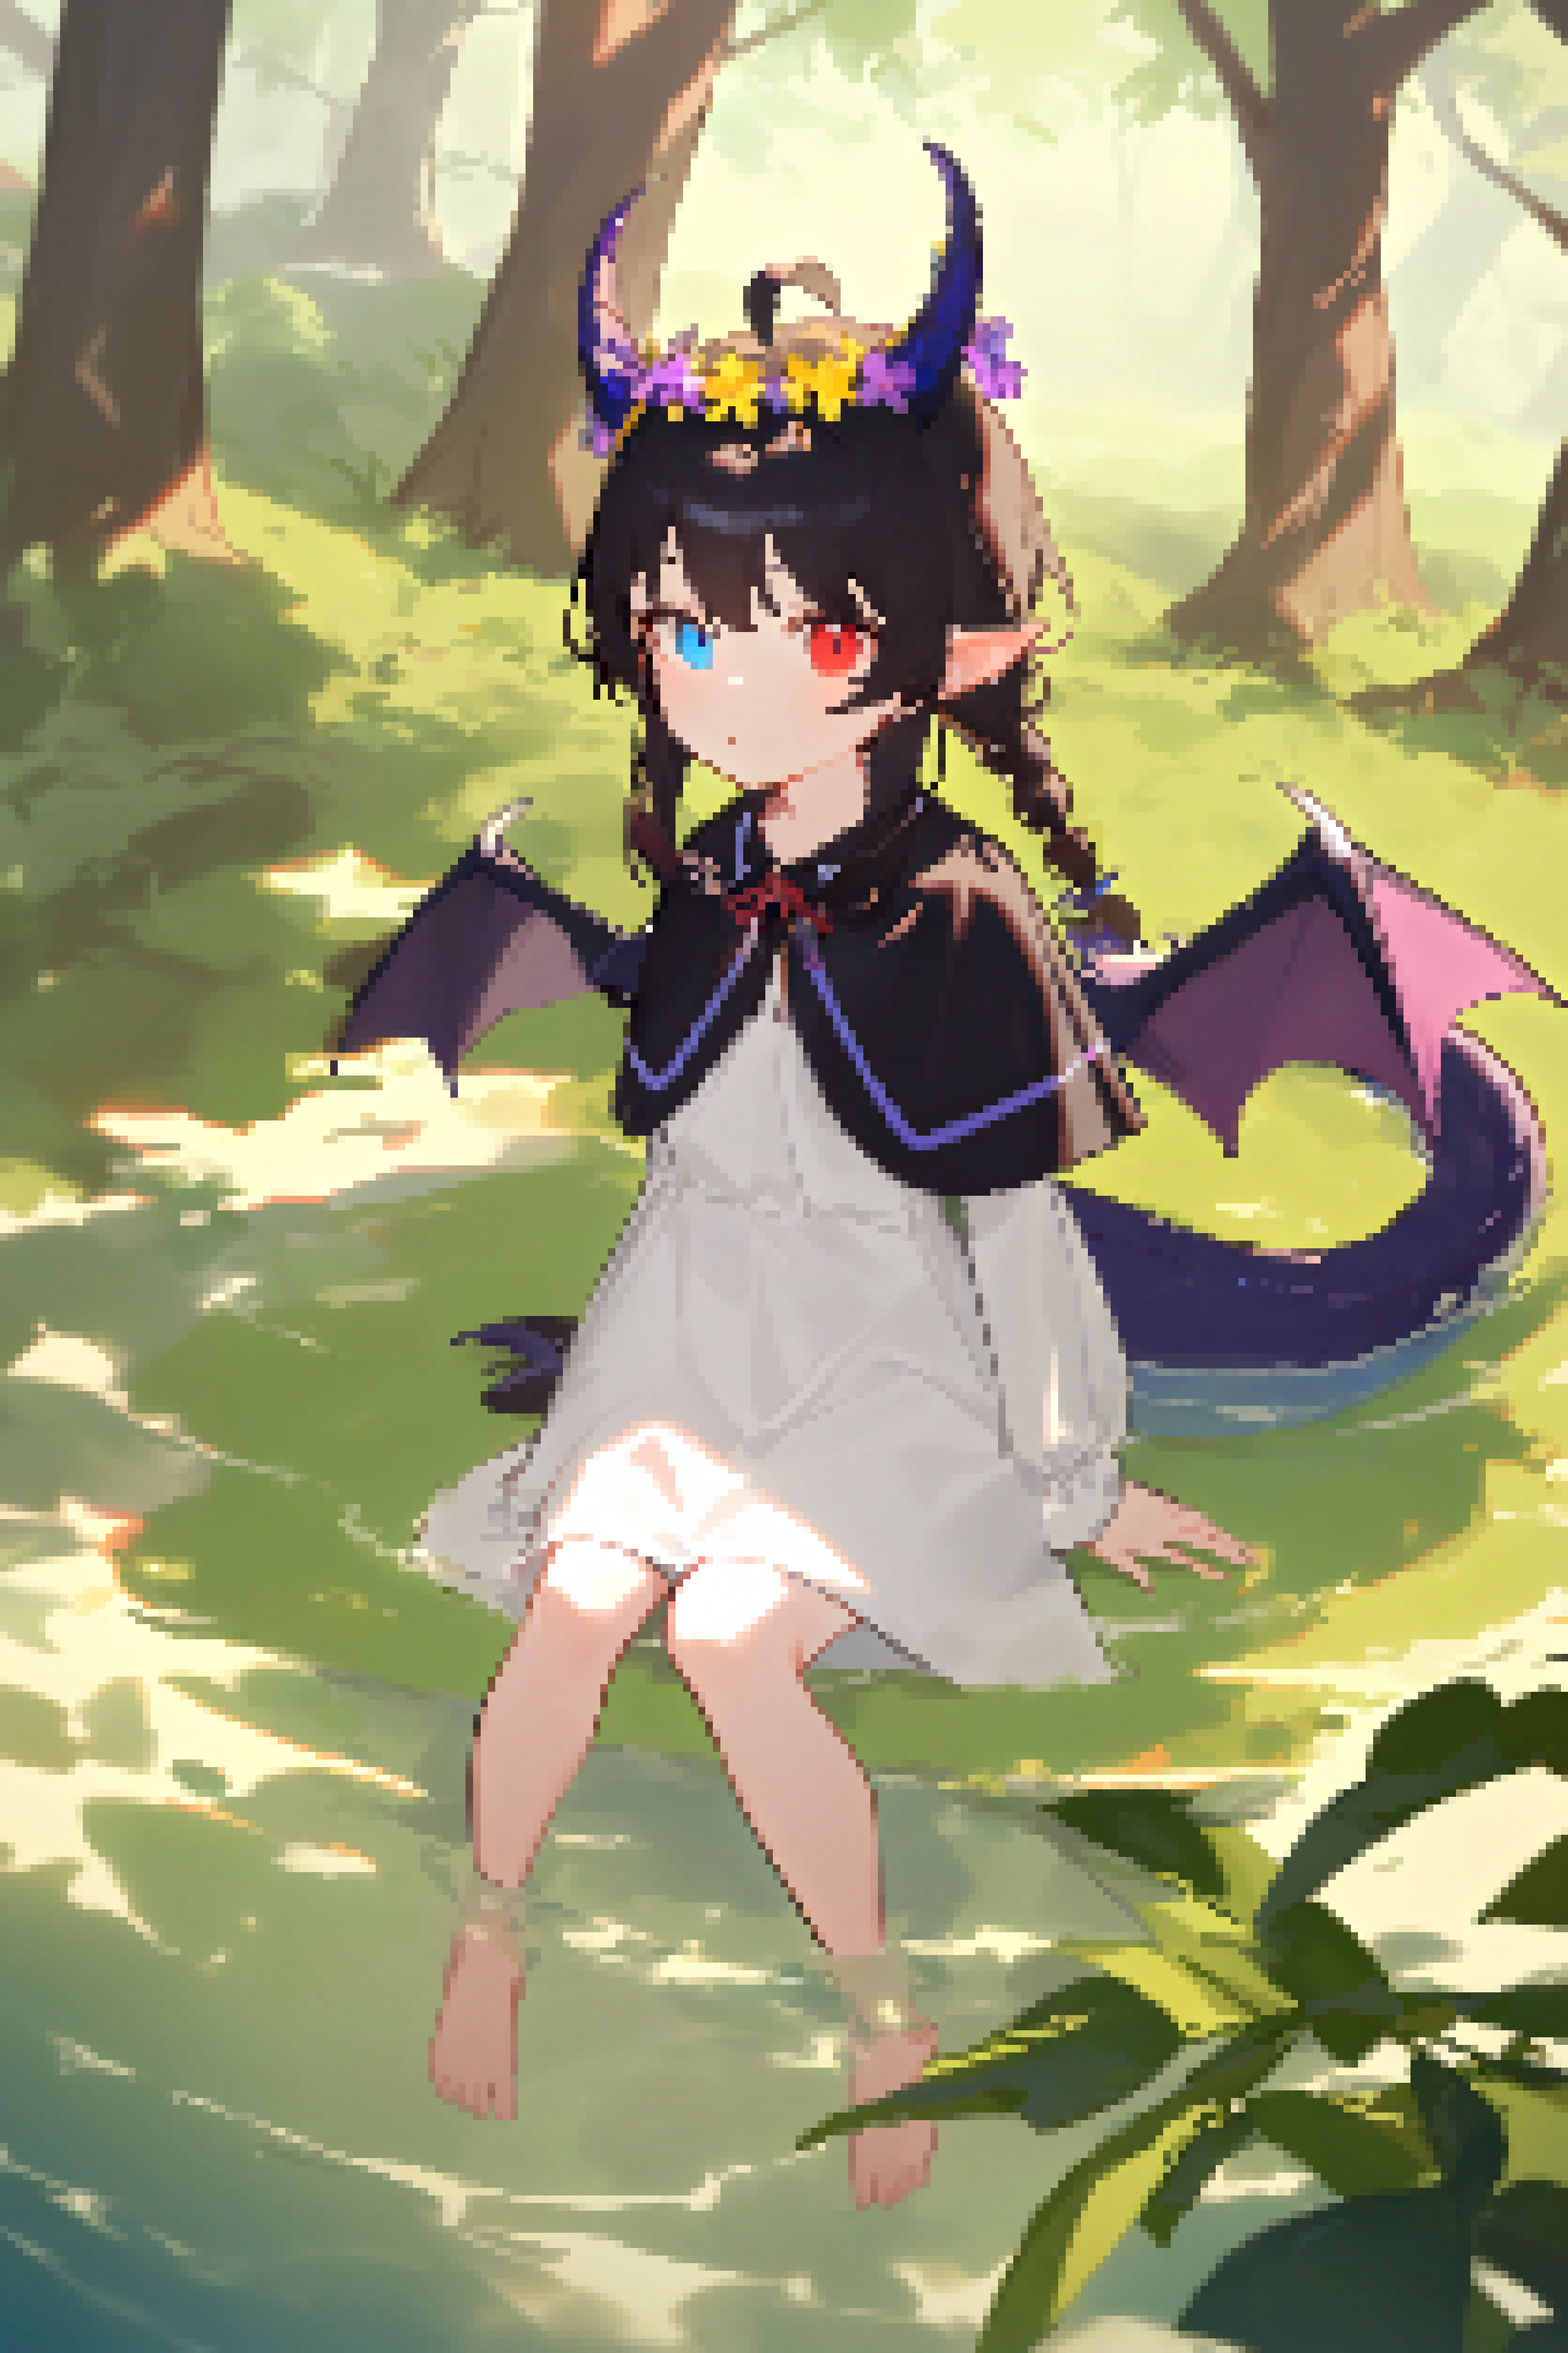
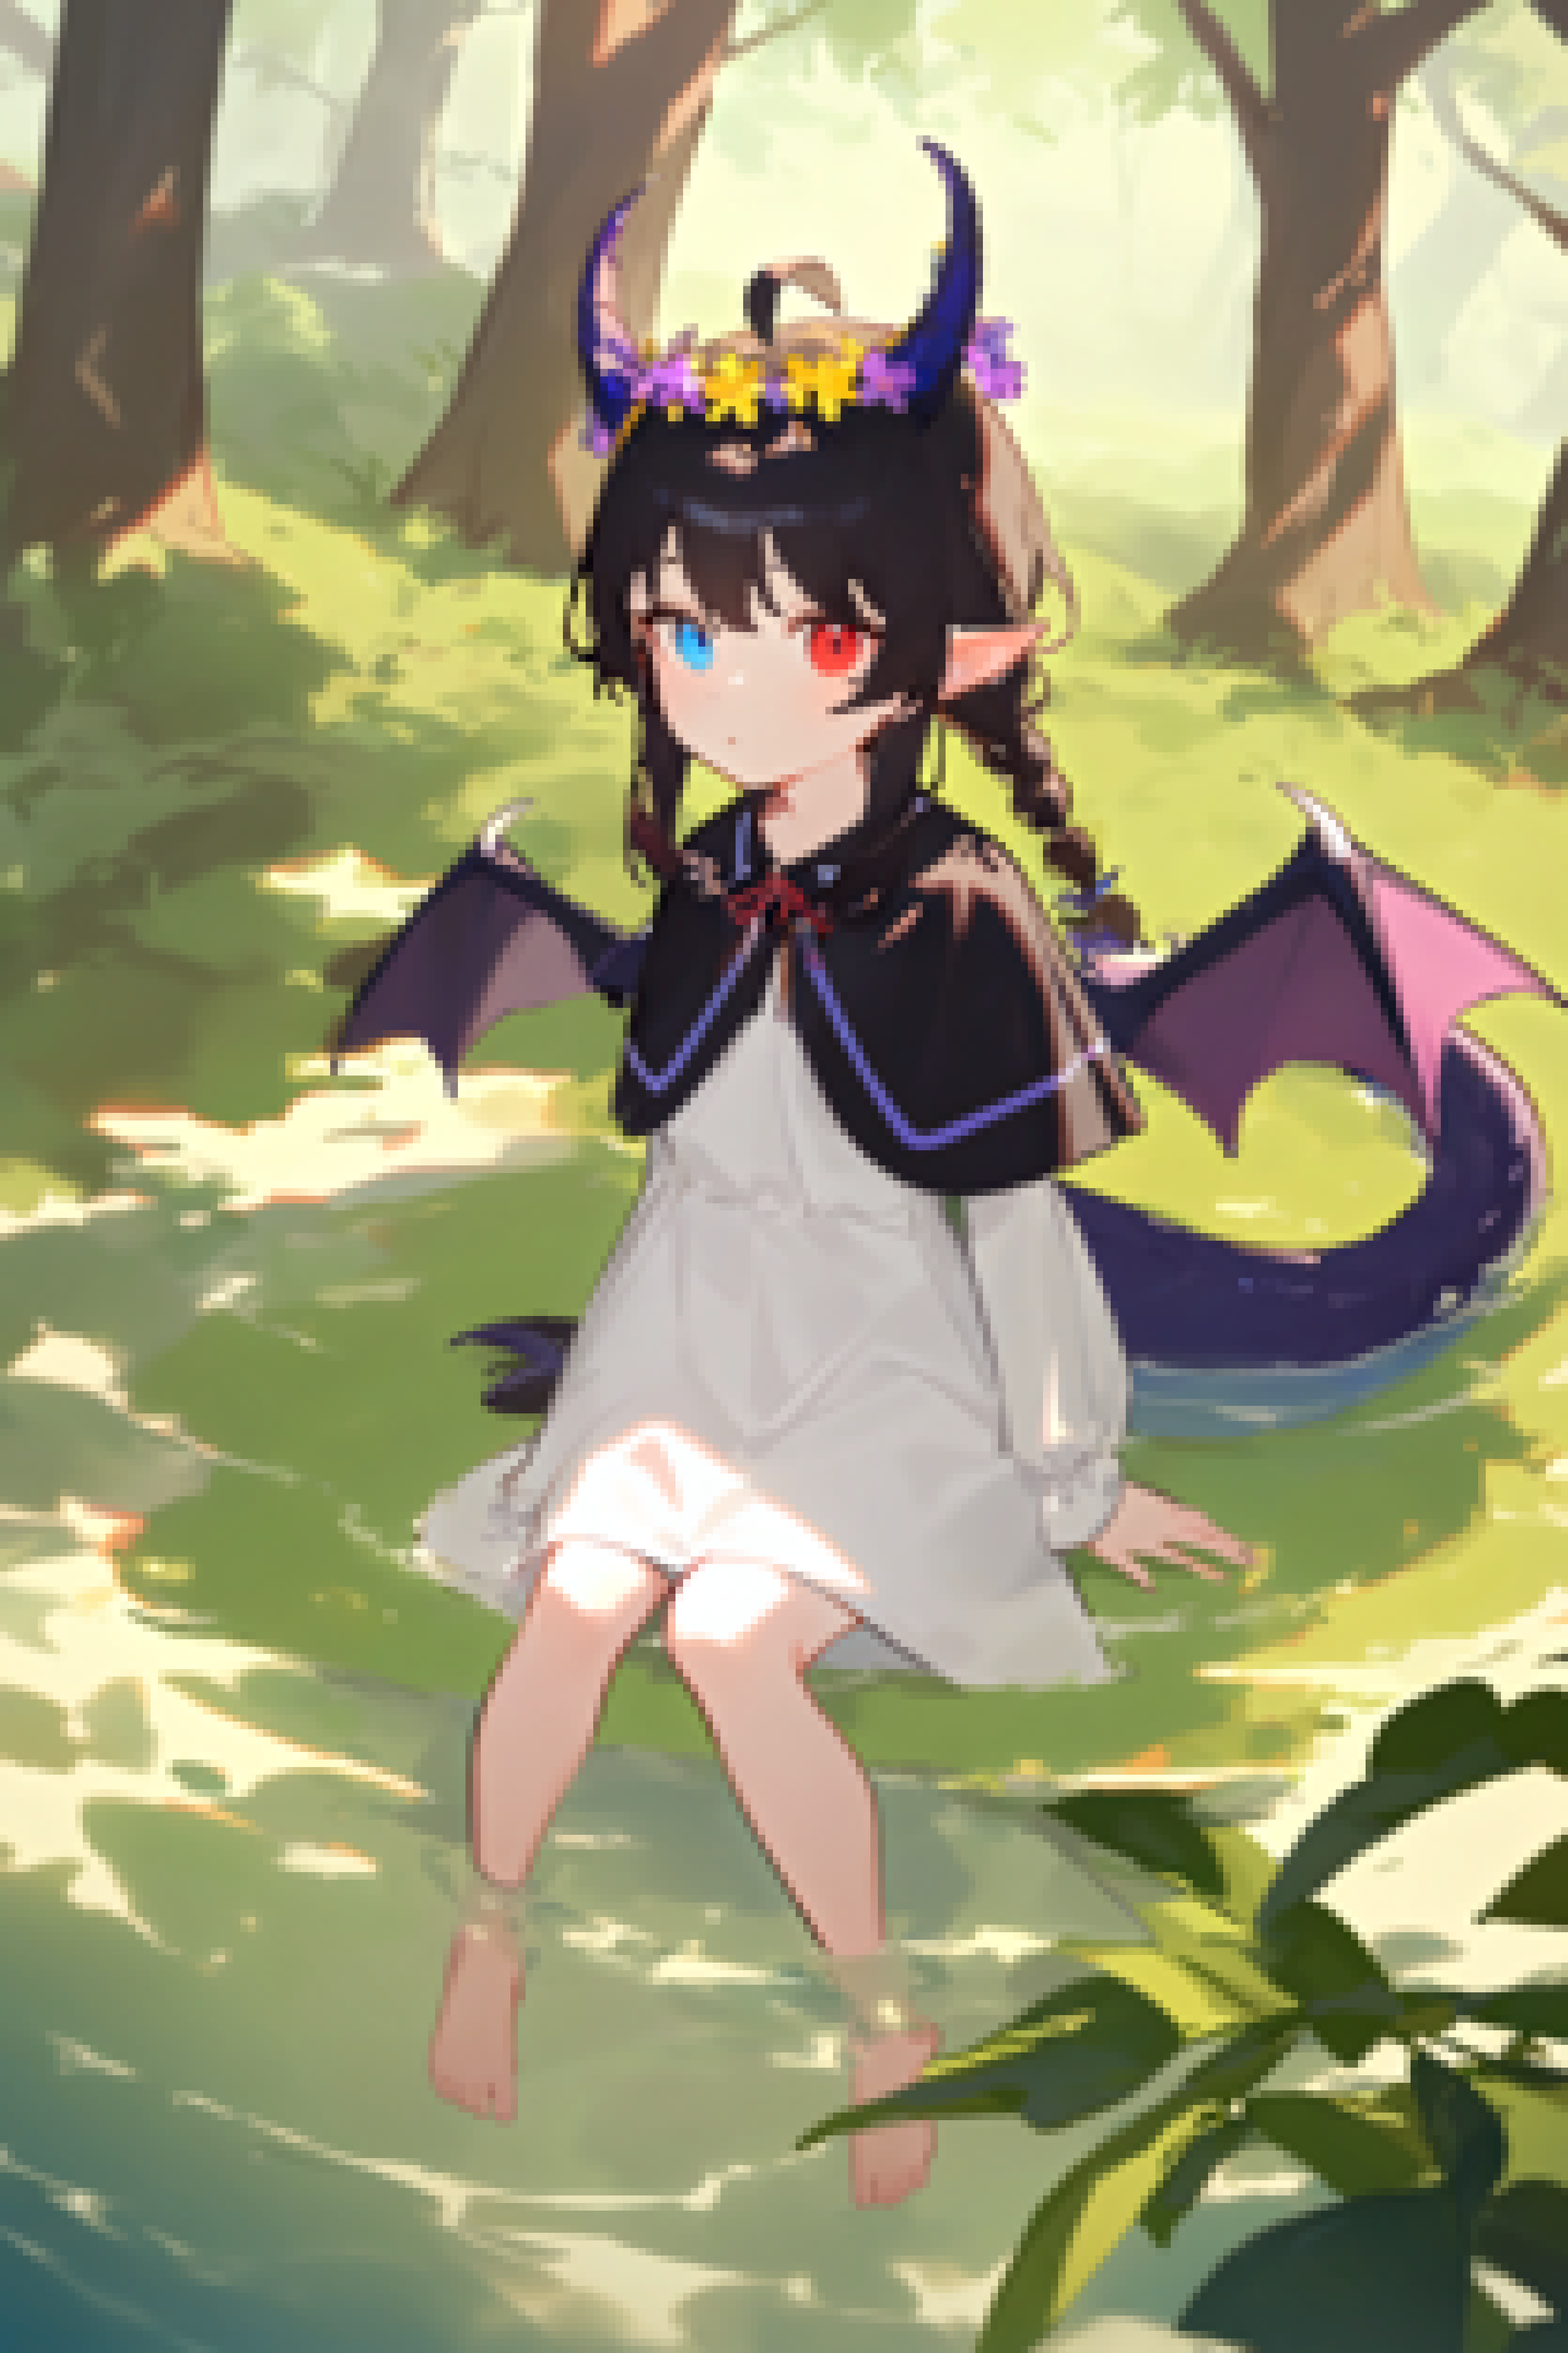
Fix bicubic downscale with PIL

diff --git a/pixeloe/downscale/conventional.py b/pixeloe/downscale/conventional.py
@@ -1,4 +1,6 @@
 import cv2
+import numpy as np
+from PIL import Image
 
 
 def nearest(
@@ -10,7 +12,10 @@ def nearest(
     ratio = W / H
     target_size = (target_size**2 / ratio) ** 0.5
     target_hw = (int(target_size * ratio), int(target_size))
-    img_sm = cv2.resize(img, target_hw, interpolation=cv2.INTER_NEAREST)
+    img_rgb = cv2.cvtColor(img, cv2.COLOR_BGR2RGB)
+    img = Image.fromarray(img_rgb)
+    img_sm = img.resize(target_hw, Image.NEAREST)
+    img_sm = cv2.cvtColor(np.asarray(img_sm), cv2.COLOR_RGB2BGR)
     return img_sm
 
 
@@ -23,5 +28,8 @@ def bicubic(
     ratio = W / H
     target_size = (target_size**2 / ratio) ** 0.5
     target_hw = (int(target_size * ratio), int(target_size))
-    img_sm = cv2.resize(img, target_hw, interpolation=cv2.INTER_CUBIC)
+    img_rgb = cv2.cvtColor(img, cv2.COLOR_BGR2RGB)
+    img = Image.fromarray(img_rgb)
+    img_sm = img.resize(target_hw, Image.BICUBIC)
+    img_sm = cv2.cvtColor(np.asarray(img_sm), cv2.COLOR_RGB2BGR)
     return img_sm
